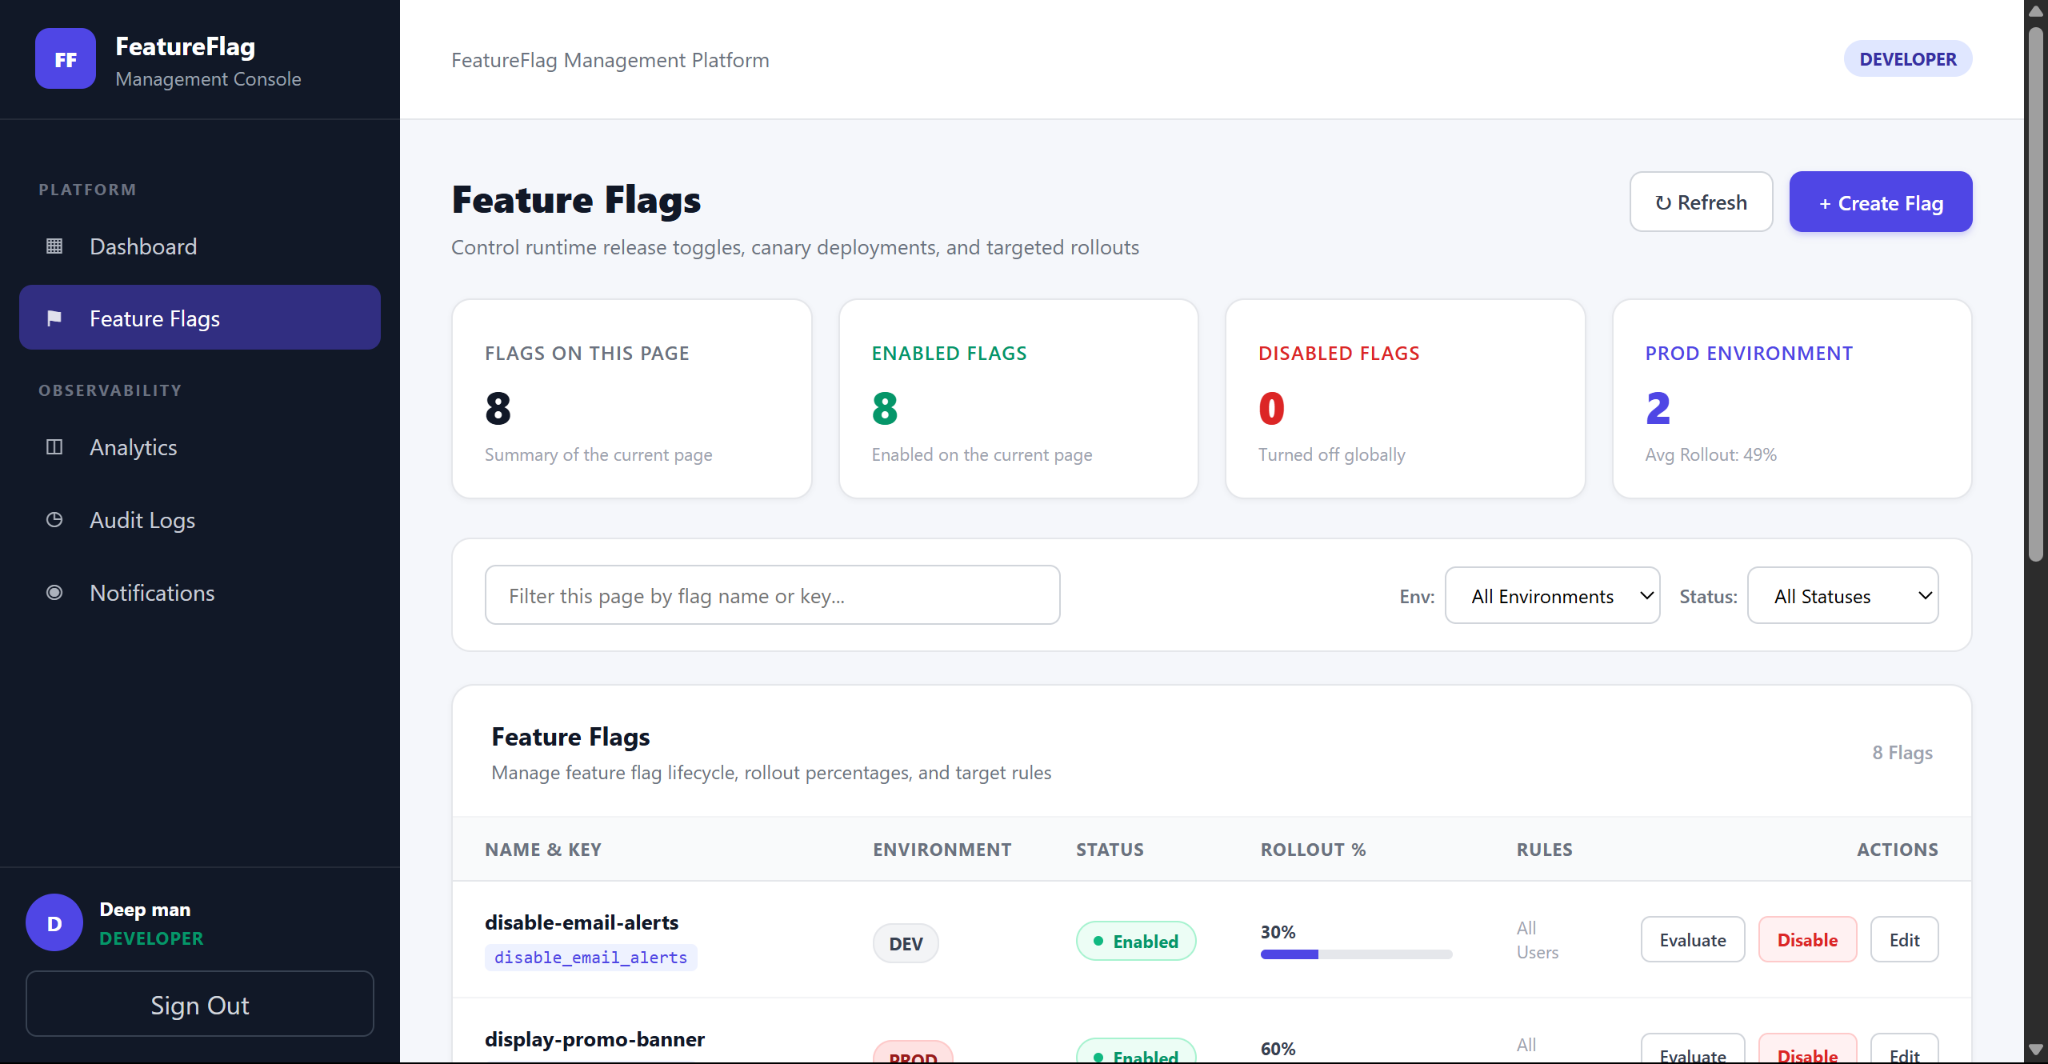
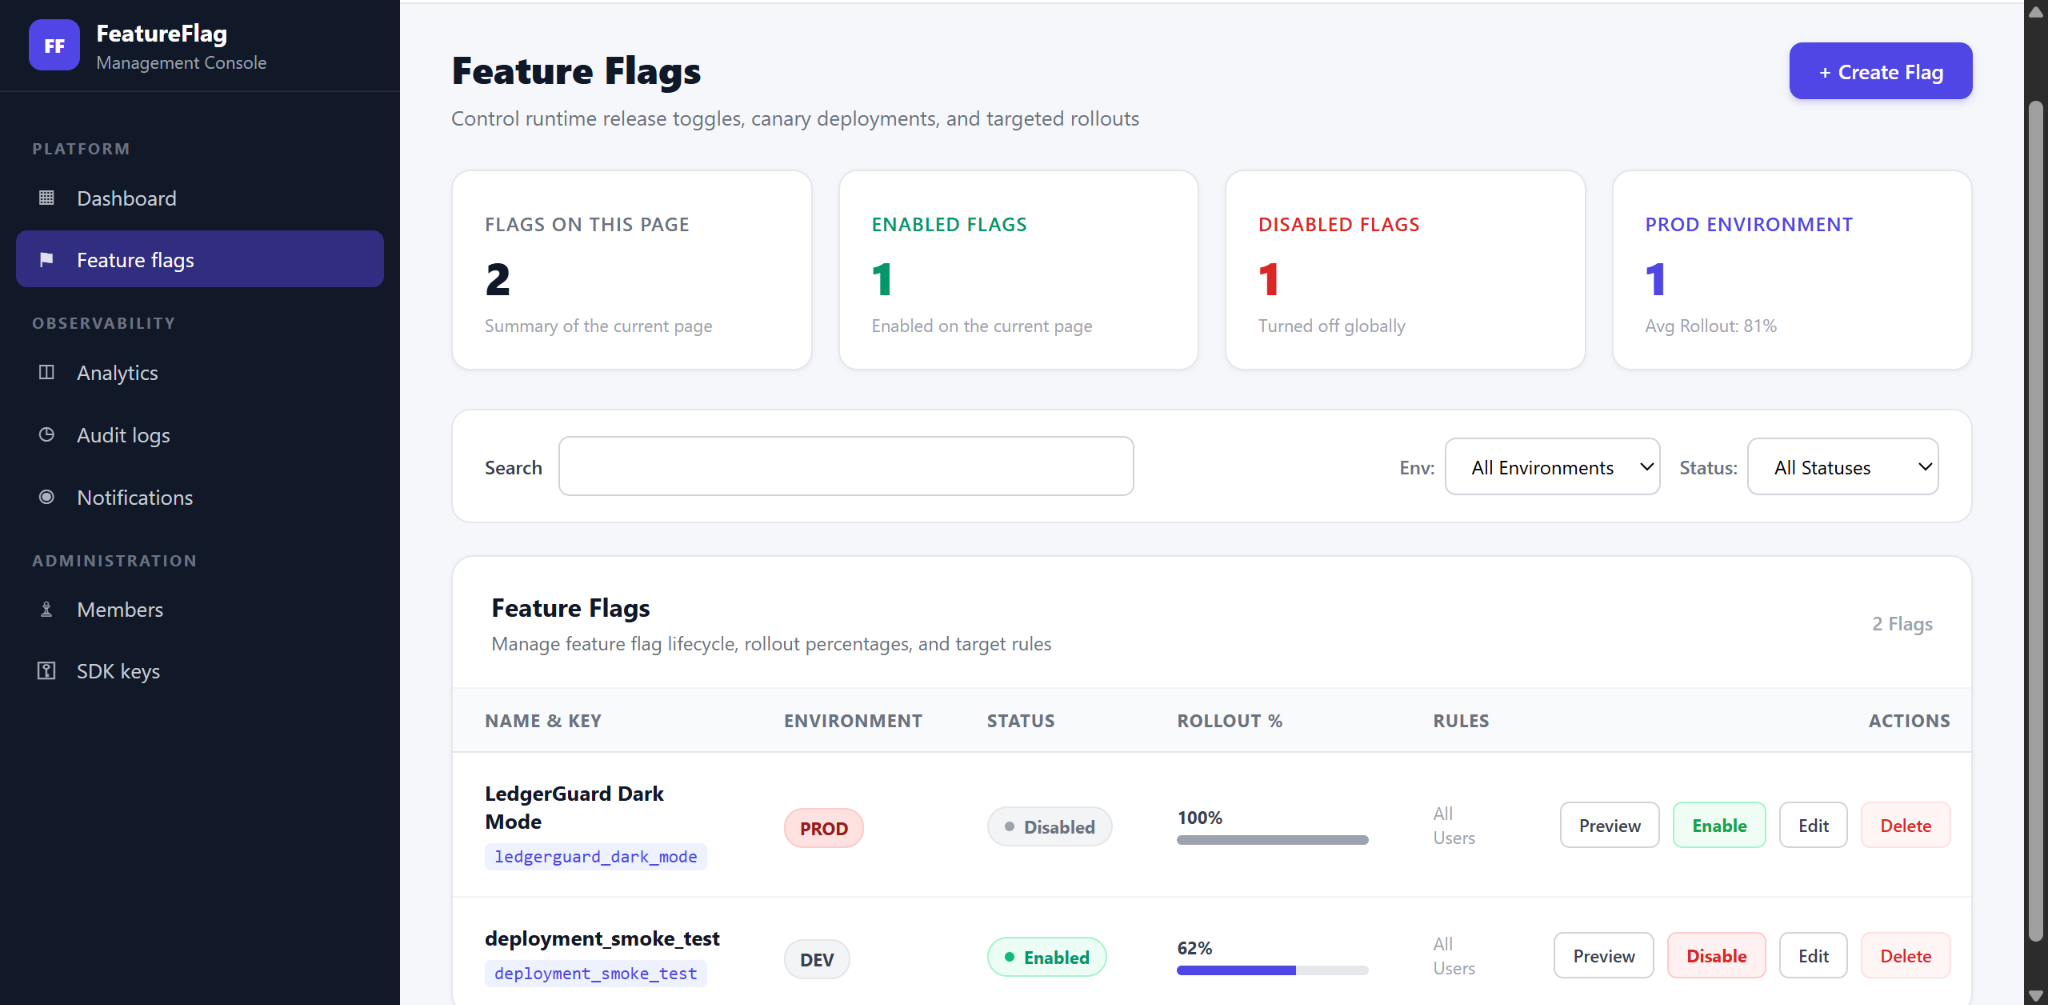
Refresh six application screenshots and document remaining captures

diff --git a/docs/SCREENSHOTS.md b/docs/SCREENSHOTS.md
@@ -1,61 +1,47 @@
 # Application Screenshots
 
-[Project overview](../README.md)
+[Project overview](../README.md) · [Engineering reference](ENGINEERING.md)
 
-Screenshots illustrate the management workflows; the running deployment may contain newer UI changes.
+The following captures were supplied from the application on **11 October 2026**. They show the current UI and sample deployment state. Counts, rollout settings, and flag status are examples, not performance measurements. Screenshots are stored without altering application data or inventing screen content.
 
-### Feature Flag Management
+## Dashboard
 
-<p align="center">
-  <img src="images/feature-flags.png" alt="Feature flag management" width="100%" />
-</p>
+Account identity and role, environment summaries, recent lifecycle activity, and navigation.
 
-The control plane supports environment-specific flag lifecycle management, filtering, rollout percentages, targeting rules, and preview actions (without recording runtime evaluation telemetry).
+![Owner dashboard with environment counts and recent activity](images/dashboard.png)
 
-### Create and Configure a Flag
+## Feature flag management
 
-<p align="center">
-  <img src="images/create-feature-flag.png" alt="Create feature flag dialog" width="90%" />
-</p>
+Environment and state filtering, rollout percentages, and Preview / mutation actions. The displayed disabled PROD flag illustrates a configuration state; it does not indicate integration failure.
 
-Flag creation supports environment selection, initial state, rollout percentage, optional schedules, descriptions, and targeted subject IDs.
+![Feature flags table with DEV and PROD flags](images/feature-flags.png)
 
-### Member and Role Administration
+## Create a flag
 
-<p align="center">
-  <img src="images/member-management.png" alt="Member management" width="100%" />
-</p>
+Environment, initial state, rollout, description, schedules with timezone context, and target subject IDs. This viewport shows the form fields; its submit controls are below the visible area.
 
-The platform uses `OWNER`, `ADMIN`, `DEVELOPER`, and `VIEWER` roles with backend-enforced authorization boundaries.
+![Flag creation dialog with schedule and targeting configuration](images/create-feature-flag.png)
 
-### Invitation Workflow
+## Invite a member
 
-<p align="center">
-  <img src="images/invite-member.png" alt="Invite organization member" width="90%" />
-</p>
+Administrators invite a recipient with a role; the recipient chooses their own password through the invitation flow.
 
-Invitations allow administrators to onboard members without creating passwords on their behalf. Invitees choose their password after accepting the invitation.
+![Invitation dialog with name, email, and role inputs](images/invite-member.png)
 
-### Analytics
+## Create an SDK credential
 
-<p align="center">
-  <img src="images/analytics.png" alt="Feature flag analytics" width="100%" />
-</p>
+The dialog binds a server-side credential to one environment and explains recovery from creation failures. This capture is taken before generation and contains no raw SDK key.
 
-Analytics aggregates lifecycle mutations and runtime evaluation telemetry consumed from Kafka.
+![SDK key creation dialog scoped to DEV](images/create-sdk-key.png)
 
-### Audit Logs
+## Sign in
 
-<p align="center">
-  <img src="images/audit-logs.png" alt="Feature flag audit logs" width="100%" />
-</p>
+The management console requires an existing account; no public self-registration or shared administrative credentials are provided.
 
-Audit records provide a chronological history of feature-flag lifecycle activity.
+![Login screen with empty credentials](images/login.png)
 
-### Notifications
+## Remaining refreshes
 
-<p align="center">
-  <img src="images/notifications.png" alt="Notification history" width="100%" />
-</p>
+The Members listing, SDK-key metadata listing, Analytics, Audit, and Notifications pages still need current captures. The Members screenshot supplied for this update contains personal email addresses and is excluded from publication. Previous images for these views remain in the repository but are not presented here as refreshed screenshots.
 
-Notification history exposes provider acceptance and retry state; SENT does not prove inbox delivery for invitation and lifecycle email processing.
+For new captures, wait for loading to finish, use consistent browser zoom, and cover personal email addresses. Do not capture raw SDK keys, tokens, passwords, invitation URLs, or browser developer tools containing credentials.

diff --git a/README.md b/README.md
@@ -200,7 +200,7 @@ See the [security and credential details](docs/ENGINEERING.md#security-model).
 
 ## Application walkthrough
 
-The images below are existing repository screenshots. They illustrate workflows and may differ from the current deployed UI; see the [screenshot gallery](docs/SCREENSHOTS.md) for the full set.
+Dashboard, flags, creation dialogs, invitation, and login screenshots were refreshed from the application on 11 October 2026. They show sample deployment state, not benchmark results. See the [screenshot gallery](docs/SCREENSHOTS.md) for captures and refresh status.
 
 | Screen | What to inspect |
 |---|---|
@@ -213,13 +213,15 @@ The images below are existing repository screenshots. They illustrate workflows 
 | Notifications | PENDING / FAILED / SENT; SENT means provider acceptance |
 
 <details>
-<summary>Dashboard and management screenshots</summary>
+<summary>Dashboard, flag configuration, invitations, and SDK credentials</summary>
 
 ![Dashboard](docs/images/dashboard.png)
 
 ![Flag configuration](docs/images/create-feature-flag.png)
 
-![Member administration](docs/images/member-management.png)
+![Member invitation dialog](docs/images/invite-member.png)
+
+![Environment-bound SDK key creation](docs/images/create-sdk-key.png)
 
 </details>
 
